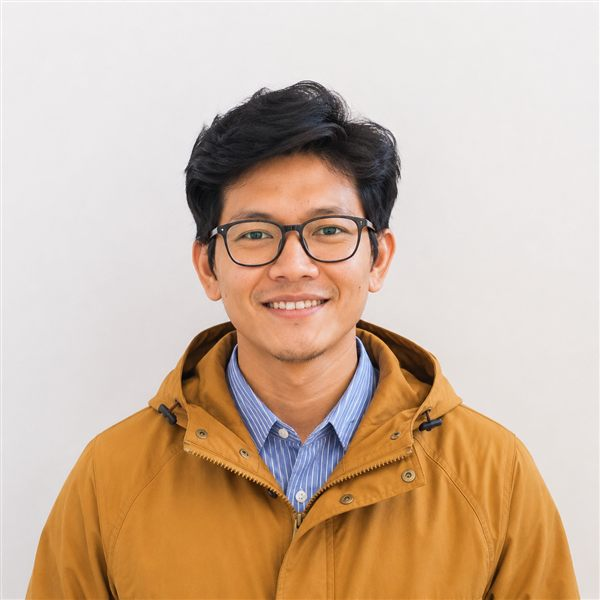
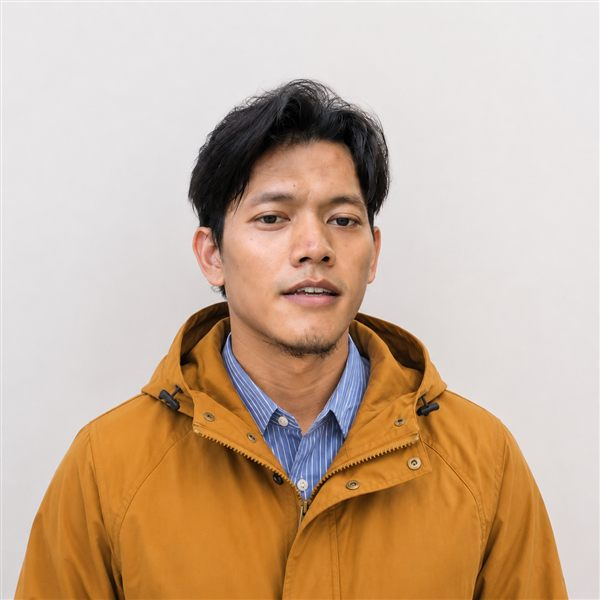
Update profile photo and fix broken PindahYuk gallery image

Changed region(s): [[0.0, 0.12, 0.99, 1.0], [0.69, 0.93, 0.72, 1.0]]

diff --git a/lib/portfolio-id.ts b/lib/portfolio-id.ts
@@ -177,7 +177,7 @@ export const projectsId: Project[] = [
     ],
     hero: { from: "#0a1520", to: "#6366f1", emoji: "📦" },
     photo: U("photo-1601584115197-04ecc0da31d7"),
-    photos: [U("photo-1601584115197-04ecc0da31d7"), U("photo-1416879595882-3373a0480b5b"), U("photo-1558618047-3c8c76ca7d13")],
+    photos: [U("photo-1601584115197-04ecc0da31d7"), U("photo-1416879595882-3373a0480b5b"), U("photo-1600880292203-757bb62b4baf")],
   },
 ];
 
